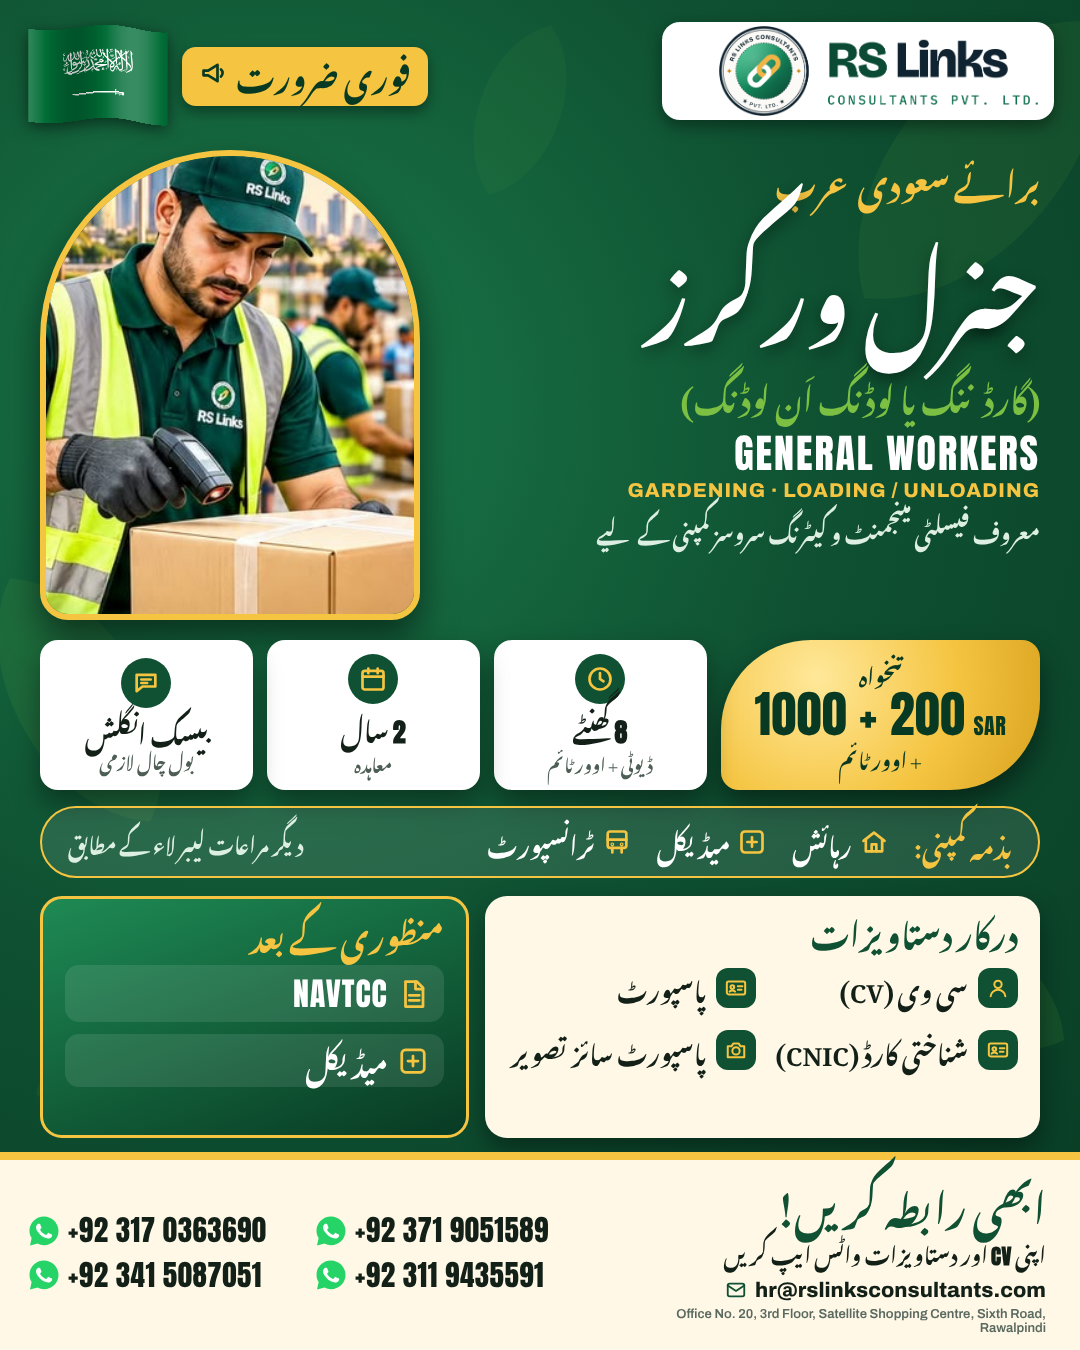
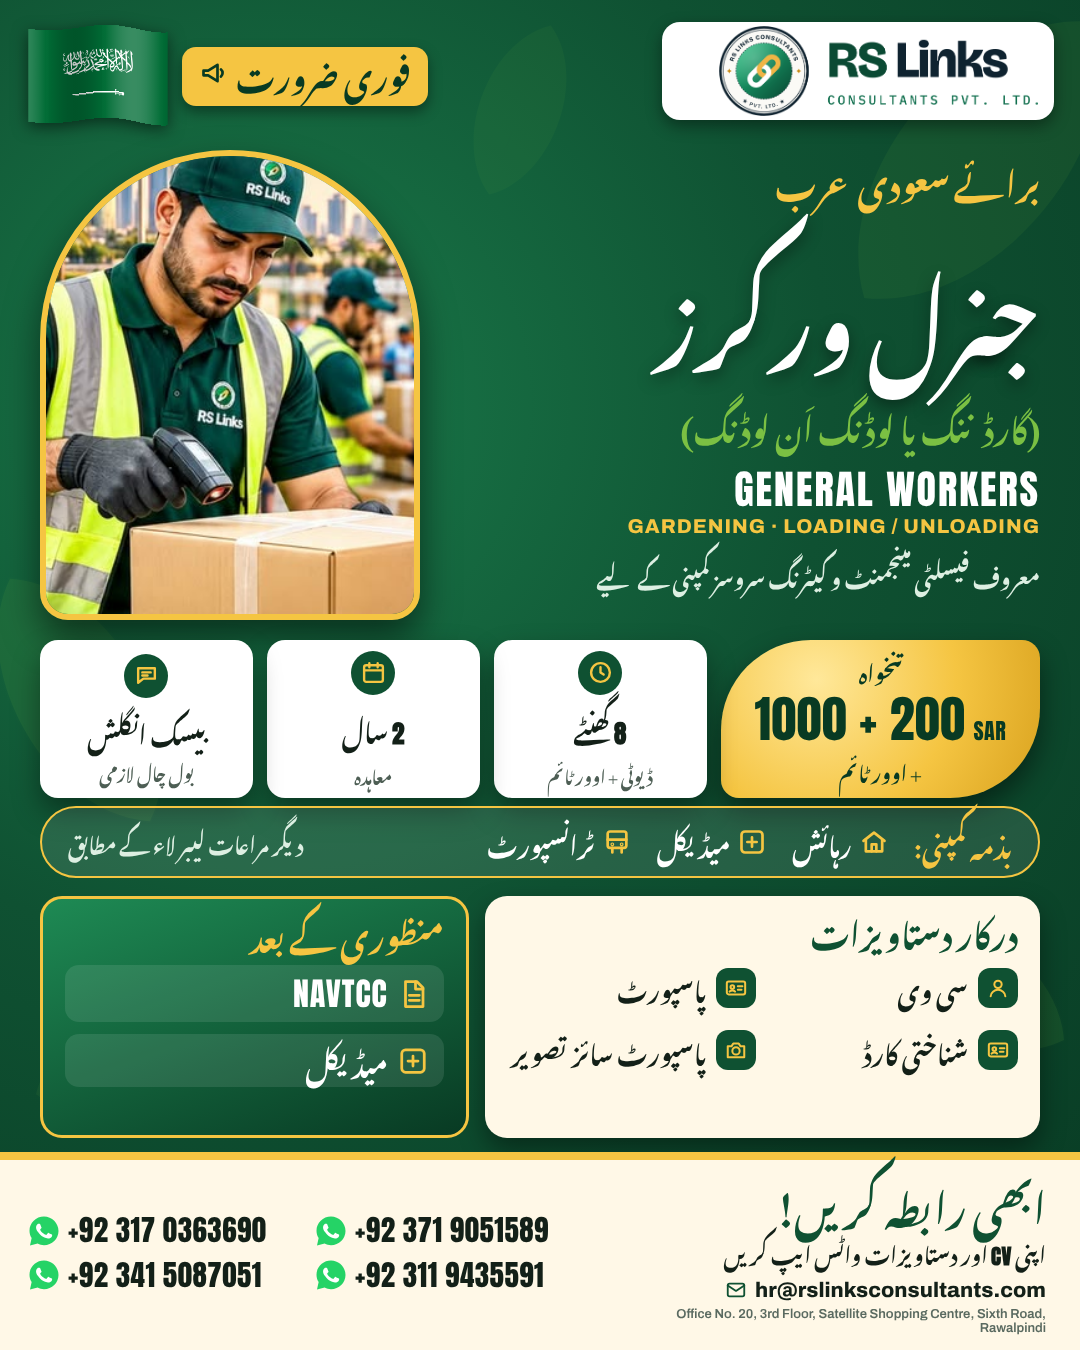
Saudi general workers ad: fix colliding Urdu text spacing
Claude-Session: https://claude.ai/code/session_01YJ5ofgU8QCiWTsYR9pvXG4

diff --git a/src/saudi_gardeners.py b/src/saudi_gardeners.py
@@ -39,7 +39,7 @@ def build():
                                                    f"<img src='{uri}' style='width:100%;height:100%;object-fit:cover;object-position:{pos}'></div>")
     pics = (f"<div style='display:flex;gap:16px;align-items:flex-end'>{frame(gardener, 210, 400)}{frame(worker, 210, 340)}</div>" if gardener
             else frame(worker, 380, 470))
-    docs = [("user", "سی وی (CV)"), ("idcard", "پاسپورٹ"), ("idcard", "شناختی کارڈ (CNIC)"), ("camera", "پاسپورٹ سائز تصویر")]
+    docs = [("user", "سی وی"), ("idcard", "پاسپورٹ"), ("idcard", "شناختی کارڈ"), ("camera", "پاسپورٹ سائز تصویر")]
     doc_li = "".join(f"<div style='display:flex;align-items:center;gap:10px'><span style='width:40px;height:40px;border-radius:12px;background:{LEAF};display:flex;align-items:center;justify-content:center;flex:none'>{icon(ic, 22, GOLD, 2.2)}</span>"
                      f"{T(t, 25, INK, 'font-weight:700', 1.7)}</div>" for ic, t in docs)
     after = [("doc", "NAVTCC"), ("medical", "میڈیکل")]
@@ -58,20 +58,20 @@ def build():
 <div class='abs' style='top:150px;left:40px'>{pics}</div>
 <div class='abs' style='top:150px;right:40px;width:560px;text-align:right'>
  {T('برائے سعودی عرب', 34, GOLD, 'font-weight:700', 1.7)}
- {T('جنرل ورکرز', 88, '#fff', 'font-weight:700;margin-top:12px;text-shadow:0 6px 16px #0006', 1.45)}
- {T('(گارڈننگ یا لوڈنگ اَن لوڈنگ)', 32, LIME, 'font-weight:700;margin-top:22px;margin-bottom:10px', 1.6)}
+ {T('جنرل ورکرز', 86, '#fff', 'font-weight:700;margin-top:24px;text-shadow:0 6px 16px #0006', 1.85)}
+ {T('(گارڈننگ یا لوڈنگ اَن لوڈنگ)', 32, LIME, 'font-weight:700;margin-top:6px;margin-bottom:16px', 1.7)}
  <div style='font:400 40px Anton;color:#fff;letter-spacing:2px;direction:ltr;text-align:right;line-height:1.1'>GENERAL WORKERS</div>
  <div style='font:800 20px Archivo;color:{GOLD};letter-spacing:1px;direction:ltr;text-align:right;margin-top:4px'>GARDENING · LOADING / UNLOADING</div>
- {T('معروف فیسلٹی مینجمنٹ و کیٹرنگ سروسز کمپنی کے لیے', 22, '#DDEFE2', 'font-weight:700;margin-top:10px', 1.7)}</div>
+ {T('معروف فیسلٹی مینجمنٹ و کیٹرنگ سروسز کمپنی کے لیے', 22, '#DDEFE2', 'font-weight:700;margin-top:18px', 1.8)}</div>
 
-<div class='abs' style='top:640px;left:40px;right:40px;height:150px;display:flex;gap:14px'>
+<div class='abs' style='top:640px;left:40px;right:40px;height:158px;display:flex;gap:14px'>
  <div style='flex:1.5;background:radial-gradient(circle at 30% 25%,#FFE89A,{GOLD} 55%,#D9A21E);border-radius:90px 18px 90px 18px;display:flex;flex-direction:column;align-items:center;justify-content:center;box-shadow:0 14px 28px #0007'>
-  {T('تنخواہ', 22, LEAF2, 'font-weight:700', 1.4)}
+  {T('تنخواہ', 22, LEAF2, 'font-weight:700;margin-bottom:8px', 1.5)}
   <div style='direction:ltr;display:flex;align-items:baseline;gap:8px'><span class='num' style='font-size:50px;color:{LEAF2};line-height:1'>1000 + 200</span><span class='num' style='font-size:22px;color:{LEAF2}'>SAR</span></div>
-  {T('+ اوور ٹائم', 20, LEAF2, 'font-weight:700', 1.5)}</div>
+  {T('+ اوور ٹائم', 20, LEAF2, 'font-weight:700;margin-top:8px', 1.5)}</div>
  {''.join(f"<div style='flex:1;background:#fff;border-radius:18px;display:flex;flex-direction:column;align-items:center;justify-content:center;box-shadow:0 14px 28px #0006'>"
-          f"<div style='width:50px;height:50px;border-radius:50%;background:{LEAF};display:flex;align-items:center;justify-content:center'>{icon(ic, 28, GOLD, 2.3)}</div>"
-          f"{T(v, 26, INK, 'font-weight:700;margin-top:2px', 1.5)}{T(l, 17, '#4D5E54', 'font-weight:700;margin-top:-2px', 1.5)}</div>"
+          f"<div style='width:44px;height:44px;border-radius:50%;background:{LEAF};display:flex;align-items:center;justify-content:center'>{icon(ic, 25, GOLD, 2.3)}</div>"
+          f"{T(v, 25, INK, 'font-weight:700;margin-top:14px', 1.5)}{T(l, 17, '#4D5E54', 'font-weight:700;margin-top:10px', 1.5)}</div>"
           for ic, v, l in [('clock', f"{N(8)} گھنٹے", 'ڈیوٹی + اوور ٹائم'), ('calendar', f"{N(2)} سال", 'معاہدہ'), ('chat', 'بیسک انگلش', 'بول چال لازمی')])}</div>
 <div class='abs' style='top:806px;left:40px;right:40px;height:72px;border-radius:999px;background:#ffffff1a;border:2px solid {GOLD};display:flex;align-items:center;gap:26px;padding:0 26px'>
  {T('بذمہ کمپنی:', 26, GOLD, 'font-weight:700', 1.6)}
